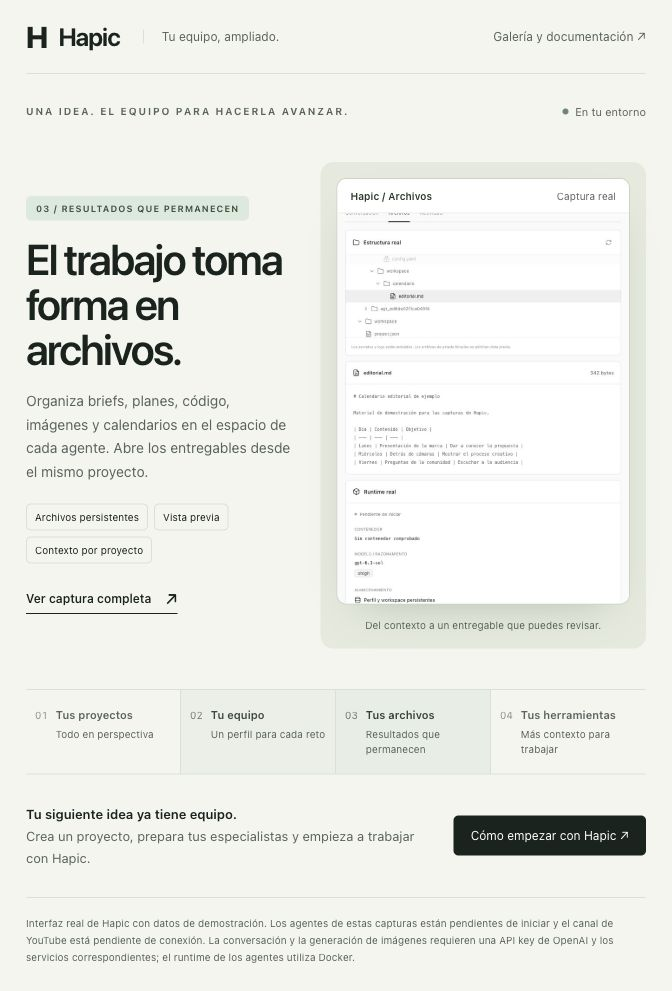
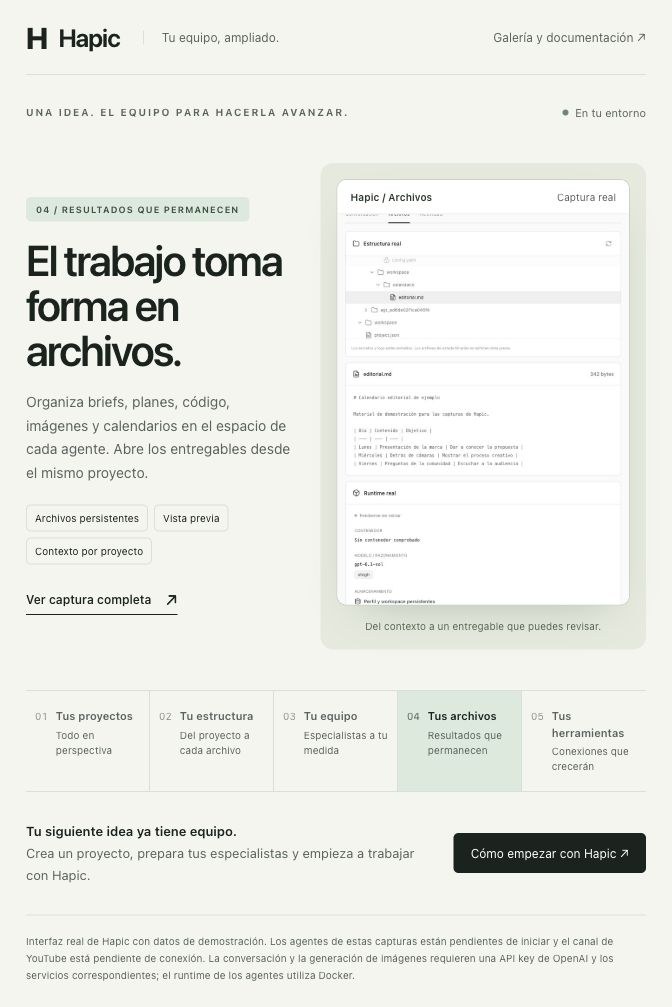
docs: prepare animated Hapic presentation for GitHub Pages

diff --git a/docs/presentacion.html b/docs/presentacion.html
@@ -32,6 +32,11 @@
       .scene-lead { max-width: 410px; margin: 23px 0 25px; color: var(--muted); font-size: 16px; line-height: 1.7; }
       .benefits { display: flex; flex-wrap: wrap; gap: 8px; padding: 0; margin: 0 0 30px; list-style: none; }
       .benefits li { padding: 8px 10px; border: 1px solid var(--line); border-radius: 5px; font-size: 11px; line-height: 1.3; }
+      .capability { margin: 0 0 24px; padding: 10px 0 10px 13px; border-left: 2px solid #8ba78d; color: var(--muted); font-size: 12px; line-height: 1.6; }
+      .capability strong { display: block; margin-bottom: 3px; color: var(--ink); font-size: 12px; }
+      .connection-list { padding: 0; margin: 0 0 24px; list-style: none; }
+      .connection-list li { display: flex; justify-content: space-between; align-items: baseline; flex-wrap: wrap; gap: 6px 12px; padding: 9px 0; border-bottom: 1px solid var(--line); font-size: 13px; }
+      .connection-list small { color: var(--muted); font-size: 11px; }
       .full-image { display: inline-flex; align-items: center; gap: 14px; padding: 0 0 5px; color: var(--ink); border: 0; border-bottom: 1px solid var(--ink); background: transparent; font-size: 12px; font-weight: 550; }
       .full-image span { font-size: 16px; }
       .screen-area { position: relative; min-width: 0; margin: 0; padding: 25px; background: #e5eadd; border-radius: 18px; }
@@ -43,7 +48,15 @@
       .screen-window.files img { transform: translateY(-21%); }
       .screen-window.templates img { transform: translateY(-4.5%); }
       .screen-note { margin: 13px 0 0; color: #556650; font-size: 10px; line-height: 1.5; text-align: center; }
-      .tour-nav { display: grid; grid-template-columns: repeat(4, minmax(0, 1fr)); gap: 0; border-top: 1px solid var(--line); border-bottom: 1px solid var(--line); }
+      .structure { min-height: 465px; padding: 20px 16px; background: #fafafa; border: 1px solid #cbd2c7; border-radius: 10px; }
+      .structure-label { margin: 0 0 20px; color: var(--muted); font-size: 10px; letter-spacing: 1px; text-transform: uppercase; }
+      .folder-tree, .folder-tree ul { padding: 0; margin: 0; list-style: none; }
+      .folder-tree ul { padding-left: 16px; margin: 13px 0 0 5px; border-left: 1px solid var(--line); }
+      .folder-tree li { margin-top: 14px; overflow-wrap: anywhere; }
+      .folder-tree strong { display: block; font-size: 12px; line-height: 1.5; font-weight: 600; }
+      .folder-tree small { display: block; margin-top: 3px; color: var(--muted); font-size: 11px; line-height: 1.5; }
+      .folder-tree code { display: block; margin-top: 7px; color: var(--muted); font-size: 10px; line-height: 1.5; }
+      .tour-nav { display: grid; grid-template-columns: repeat(5, minmax(0, 1fr)); gap: 0; border-top: 1px solid var(--line); border-bottom: 1px solid var(--line); }
       .tour-nav button { display: flex; align-items: flex-start; gap: 14px; min-width: 0; padding: 22px 12px; border: 0; border-right: 1px solid var(--line); background: transparent; color: var(--muted); text-align: left; }
       .tour-nav button:last-child { border-right: 0; }
       .tour-nav button[aria-pressed="true"] { background: var(--mint); color: var(--ink); }
@@ -71,6 +84,7 @@
         .scene-number { margin-bottom: 16px; font-size: 9px; }
         .screen-area { padding: 16px; border-radius: 13px; }
         .screen-window { height: 390px; }
+        .structure { min-height: 390px; padding: 16px 12px; }
         .benefits { gap: 6px; margin-bottom: 24px; }
         .benefits li { padding: 6px 8px; font-size: 10px; }
         .tour-nav button { gap: 8px; padding: 17px 9px; }
@@ -89,20 +103,38 @@
         .screen-area { padding: 20px; }
         .screen-window { height: 360px; }
         .tour-nav { grid-template-columns: repeat(2, minmax(0, 1fr)); }
-        .tour-nav button:nth-child(2) { border-right: 0; }
-        .tour-nav button:nth-child(-n+2) { border-bottom: 1px solid var(--line); }
+        .tour-nav button:nth-child(even) { border-right: 0; }
+        .tour-nav button:nth-child(-n+4) { border-bottom: 1px solid var(--line); }
+        .tour-nav button:last-child { grid-column: 1 / -1; }
         .closing { align-items: flex-start; flex-direction: column; gap: 16px; }
         .step-copy strong { font-size: 12px; }
         .docs-link { font-size: 11px; }
       }
-      @media (prefers-reduced-motion: no-preference) { .tour-nav button { transition: background .16s ease, color .16s ease; } }
+      @keyframes copy-enter { from { opacity: 0; transform: translateY(12px); } to { opacity: 1; transform: translateY(0); } }
+      @keyframes screen-enter { from { opacity: 0; transform: translateY(16px) scale(.985); } to { opacity: 1; transform: translateY(0) scale(1); } }
+      @keyframes item-enter { from { opacity: 0; transform: translateX(-8px); } to { opacity: 1; transform: translateX(0); } }
+      @media (prefers-reduced-motion: no-preference) {
+        .scene:not([hidden]) .scene-copy { animation: copy-enter .42s ease-out both; }
+        .scene:not([hidden]) .screen-area { animation: screen-enter .52s ease-out both; }
+        .scene:not([hidden]) .folder-tree li { animation: item-enter .38s ease-out both; animation-delay: .12s; }
+        .scene:not([hidden]) .folder-tree ul li { animation-delay: .22s; }
+        .scene:not([hidden]) .folder-tree ul ul li { animation-delay: .32s; }
+        .scene:not([hidden]) .folder-tree ul ul ul li { animation-delay: .42s; }
+        .scene:not([hidden]) .connection-list li { animation: item-enter .38s ease-out both; }
+        .scene:not([hidden]) .connection-list li:nth-child(2) { animation-delay: .1s; }
+        .scene:not([hidden]) .connection-list li:nth-child(3) { animation-delay: .2s; }
+        .tour-nav button { transition: background .16s ease, color .16s ease; }
+        .full-image span { display: inline-block; transition: transform .18s ease; }
+        .full-image:hover span { transform: translate(2px, -2px); }
+        dialog[open] { animation: screen-enter .2s ease-out; }
+      }
     </style>
   </head>
   <body>
     <div class="shell">
       <header class="masthead">
         <a class="brand" href="#producto" aria-label="Hapic, inicio"><span class="brand-mark" aria-hidden="true">H</span> Hapic <span class="brand-caption">Tu equipo, ampliado.</span></a>
-        <a class="docs-link" href="dashboard.md">Galería y documentación ↗</a>
+        <a class="docs-link" href="https://github.com/esteban-rj/hapic/blob/main/docs/dashboard.md">Galería y documentación ↗</a>
       </header>
       <main id="producto">
         <div class="intro"><p class="eyebrow">Una idea. El equipo para hacerla avanzar.</p><span class="local-label">En tu entorno</span></div>
@@ -121,12 +153,47 @@
           </figure>
         </section>
 
+        <section class="scene" id="scene-estructura" aria-labelledby="title-estructura" hidden>
+          <div class="scene-copy">
+            <span class="scene-number">02 / UN LUGAR PARA CADA COSA</span>
+            <h2 id="title-estructura">Del proyecto<br />a cada archivo.</h2>
+            <p class="scene-lead">Agrupa tus proyectos por organización. Cada proyecto reúne a sus agentes, y cada agente conserva su perfil, memoria y carpetas de trabajo.</p>
+            <ul class="benefits"><li>Organizaciones</li><li>Proyectos</li><li>Agentes</li><li>Carpetas y archivos</li></ul>
+            <button type="button" class="full-image" data-image="archivos">Ver el explorador real <span aria-hidden="true">↗</span></button>
+          </div>
+          <figure class="screen-area">
+            <div class="structure">
+              <p class="structure-label">Esquema del espacio de trabajo</p>
+              <ul class="folder-tree">
+                <li><strong>Estudio Aurora</strong><small>Organización</small>
+                  <ul>
+                    <li><strong>Lanzamiento de marca</strong><small>Proyecto</small>
+                      <ul>
+                        <li><strong>Sofía · Community Manager</strong><small>Agente del proyecto</small>
+                          <ul>
+                            <li><strong>hermes/</strong><small>Perfil y memoria persistente</small></li>
+                            <li><strong>workspace/</strong><small>Carpetas y entregables</small><code>calendario/editorial.md</code></li>
+                          </ul>
+                        </li>
+                        <li><strong>Lucía · UX</strong><small>Su propio perfil y workspace</small></li>
+                      </ul>
+                    </li>
+                    <li><strong>Sitio web corporativo</strong><small>Otro proyecto, con su propio equipo</small></li>
+                  </ul>
+                </li>
+              </ul>
+            </div>
+            <figcaption class="screen-note">Estructura ilustrada con datos de demostración.</figcaption>
+          </figure>
+        </section>
+
         <section class="scene" id="scene-plantillas" aria-labelledby="title-plantillas" hidden>
           <div class="scene-copy">
-            <span class="scene-number">02 / TU EQUIPO DE ESPECIALISTAS</span>
-            <h2 id="title-plantillas">Un especialista<br />para cada reto.</h2>
+            <span class="scene-number">03 / TU EQUIPO DE ESPECIALISTAS</span>
+            <h2 id="title-plantillas">Tu equipo,<br />a tu medida.</h2>
             <p class="scene-lead">Empieza con perfiles preparados para diseñar, planificar, escribir código y trabajar tu contenido. Cada agente tiene su propia memoria y espacio de trabajo.</p>
             <ul class="benefits"><li>UX</li><li>Diseño gráfico</li><li>Arquitectura</li><li>Código</li><li>Community Manager</li></ul>
+            <p class="capability"><strong>Previsto · Agentes desde cero</strong>Define un rol, instrucciones y herramientas propios para crear un agente completamente personalizado, sin partir de una plantilla.</p>
             <button type="button" class="full-image" data-image="plantillas">Ver captura completa <span aria-hidden="true">↗</span></button>
           </div>
           <figure class="screen-area">
@@ -137,7 +204,7 @@
 
         <section class="scene" id="scene-archivos" aria-labelledby="title-archivos" hidden>
           <div class="scene-copy">
-            <span class="scene-number">03 / RESULTADOS QUE PERMANECEN</span>
+            <span class="scene-number">04 / RESULTADOS QUE PERMANECEN</span>
             <h2 id="title-archivos">El trabajo toma<br />forma en archivos.</h2>
             <p class="scene-lead">Organiza briefs, planes, código, imágenes y calendarios en el espacio de cada agente. Abre los entregables desde el mismo proyecto.</p>
             <ul class="benefits"><li>Archivos persistentes</li><li>Vista previa</li><li>Contexto por proyecto</li></ul>
@@ -151,26 +218,27 @@
 
         <section class="scene" id="scene-herramientas" aria-labelledby="title-herramientas" hidden>
           <div class="scene-copy">
-            <span class="scene-number">04 / HERRAMIENTAS PARA TU EQUIPO</span>
-            <h2 id="title-herramientas">Tu canal.<br />Más contexto<br />para tus agentes.</h2>
-            <p class="scene-lead">Autoriza un canal de YouTube y elige qué agentes pueden consultar sus vídeos, comentarios y métricas para trabajar con datos de tu contenido.</p>
-            <ul class="benefits"><li>YouTube de solo lectura</li><li>Canal autorizado</li><li>Asignación por agente</li></ul>
+            <span class="scene-number">05 / HERRAMIENTAS PARA TU EQUIPO</span>
+            <h2 id="title-herramientas">Tus herramientas.<br />Más posibilidades.</h2>
+            <p class="scene-lead">La visión de Hapic es que cualquier agente incorpore conexiones según su trabajo. YouTube es el primer conector; el catálogo podrá crecer con HeyGen, ElevenLabs y otros servicios.</p>
+            <ul class="connection-list"><li><strong>YouTube</strong><small>Disponible · Solo lectura</small></li><li><strong>HeyGen</strong><small>Integración prevista</small></li><li><strong>ElevenLabs</strong><small>Integración prevista</small></li></ul>
             <button type="button" class="full-image" data-image="herramientas">Ver captura completa <span aria-hidden="true">↗</span></button>
           </div>
           <figure class="screen-area">
             <div class="screen-frame"><div class="screen-header"><span class="screen-title">Hapic / Herramientas</span><span>Captura real</span></div><div class="screen-window"><img src="screenshots/dashboard-herramientas.jpg" alt="Herramienta de YouTube y controles para asignarla a los agentes del proyecto." width="672" height="2059" /></div></div>
-            <figcaption class="screen-note">Una conexión del proyecto, disponible para los agentes que elijas.</figcaption>
+            <figcaption class="screen-note">Captura del conector actual de YouTube. Las otras integraciones están previstas.</figcaption>
           </figure>
         </section>
 
         <nav class="tour-nav" aria-label="Recorrido por Hapic">
           <button type="button" data-scene="resumen" aria-controls="scene-resumen" aria-pressed="true"><span class="step-number">01</span><span class="step-copy"><strong>Tus proyectos</strong><small>Todo en perspectiva</small></span></button>
-          <button type="button" data-scene="plantillas" aria-controls="scene-plantillas" aria-pressed="false"><span class="step-number">02</span><span class="step-copy"><strong>Tu equipo</strong><small>Un perfil para cada reto</small></span></button>
-          <button type="button" data-scene="archivos" aria-controls="scene-archivos" aria-pressed="false"><span class="step-number">03</span><span class="step-copy"><strong>Tus archivos</strong><small>Resultados que permanecen</small></span></button>
-          <button type="button" data-scene="herramientas" aria-controls="scene-herramientas" aria-pressed="false"><span class="step-number">04</span><span class="step-copy"><strong>Tus herramientas</strong><small>Más contexto para trabajar</small></span></button>
+          <button type="button" data-scene="estructura" aria-controls="scene-estructura" aria-pressed="false"><span class="step-number">02</span><span class="step-copy"><strong>Tu estructura</strong><small>Del proyecto a cada archivo</small></span></button>
+          <button type="button" data-scene="plantillas" aria-controls="scene-plantillas" aria-pressed="false"><span class="step-number">03</span><span class="step-copy"><strong>Tu equipo</strong><small>Especialistas a tu medida</small></span></button>
+          <button type="button" data-scene="archivos" aria-controls="scene-archivos" aria-pressed="false"><span class="step-number">04</span><span class="step-copy"><strong>Tus archivos</strong><small>Resultados que permanecen</small></span></button>
+          <button type="button" data-scene="herramientas" aria-controls="scene-herramientas" aria-pressed="false"><span class="step-number">05</span><span class="step-copy"><strong>Tus herramientas</strong><small>Conexiones que crecerán</small></span></button>
         </nav>
         <p id="tour-status" class="sr-only" aria-live="polite">Mostrando Tus proyectos.</p>
-        <div class="closing"><p><strong>Tu siguiente idea ya tiene equipo.</strong><br />Crea un proyecto, prepara tus especialistas y empieza a trabajar con Hapic.</p><a class="start-link" href="../README.md#recorrido">Cómo empezar con Hapic ↗</a></div>
+        <div class="closing"><p><strong>Tu siguiente idea ya tiene equipo.</strong><br />Crea un proyecto, prepara tus especialistas y empieza a trabajar con Hapic.</p><a class="start-link" href="https://github.com/esteban-rj/hapic#recorrido">Cómo empezar con Hapic ↗</a></div>
       </main>
       <footer><p class="footnote">Interfaz real de Hapic con datos de demostración. Los agentes de estas capturas están pendientes de iniciar y el canal de YouTube está pendiente de conexión. La conversación y la generación de imágenes requieren una API key de OpenAI y los servicios correspondientes; el runtime de los agentes utiliza Docker.</p></footer>
     </div>

diff --git a/docs/index.html b/docs/index.html
@@ -1,0 +1,13 @@
+<!doctype html>
+<html lang="es">
+  <head>
+    <meta charset="UTF-8" />
+    <meta name="viewport" content="width=device-width, initial-scale=1" />
+    <meta http-equiv="refresh" content="0; url=presentacion.html" />
+    <link rel="canonical" href="presentacion.html" />
+    <title>Hapic · Tu equipo, ampliado</title>
+  </head>
+  <body>
+    <p><a href="presentacion.html">Ver la presentación de Hapic</a></p>
+  </body>
+</html>

diff --git a/docs/dashboard.md b/docs/dashboard.md
@@ -2,7 +2,7 @@
 
 Un espacio para organizar tus proyectos y trabajar con especialistas de IA que conservan su memoria, sus archivos y un propósito definido.
 
-[Abrir el recorrido visual →](presentacion.html)
+[Abrir el recorrido visual →](https://esteban-rj.github.io/hapic/)
 
 ## Todos tus proyectos. Una sola perspectiva.
 
@@ -12,9 +12,28 @@ Dale un lugar a cada idea. Desde el resumen puedes explorar tus proyectos, encon
 
 [Ver la captura original completa del resumen](screenshots/dashboard-resumen.jpg)
 
+## Del proyecto a cada archivo.
+
+La organización agrupa los proyectos. Cada proyecto reúne a sus agentes y un workspace compartido; cada agente dispone de un perfil Hermes con memoria y de su propio workspace para carpetas y archivos.
+
+```text
+.hapic/
+  organizations/<organizacion-id>/
+    projects/<proyecto-id>/
+      workspace/                     # planes compartidos del proyecto
+      agents/<agente-id>/
+        hermes/                      # perfil, configuración y memoria
+        workspace/                   # carpetas y archivos del agente
+          calendario/editorial.md
+```
+
+![Hapic: estructura de organizaciones, proyectos, agentes y carpetas](screenshots/hapic-estructura.jpg)
+
 ## Un especialista para cada reto.
 
 Construye tu equipo a partir de perfiles preparados. Cada plantilla define una forma de trabajo, preguntas iniciales y entregables para empezar con una dirección clara.
+
+**Previsto: agentes desde cero.** La evolución del producto contempla definir un rol, instrucciones y herramientas propios para crear un agente completamente personalizado, sin plantilla. La versión actual de este repositorio crea agentes desde las plantillas disponibles.
 
 | Lo que quieres construir | Tu especialista |
 | --- | --- |
@@ -41,9 +60,11 @@ Briefs, planes, código, imágenes y calendarios tienen un espacio propio. Explo
 
 [Ver la captura original completa del explorador](screenshots/dashboard-archivos.jpg)
 
-## Tu canal. Más contexto para tus agentes.
+## Tus herramientas. Más posibilidades.
 
 Conecta un canal autorizado de YouTube y elige qué agentes pueden consultar sus vídeos, comentarios y métricas. La herramienta pertenece al proyecto y puede integrarse en cualquiera de sus perfiles; Community Manager la incluye preseleccionada.
+
+El catálogo podrá incorporar **HeyGen**, **ElevenLabs** y otros servicios. Son integraciones previstas; el conector disponible actualmente es YouTube de solo lectura.
 
 ![Hapic: tu canal aporta contexto a los agentes que elijas](screenshots/hapic-herramientas.jpg)
 
@@ -59,4 +80,4 @@ Interfaz real de este repositorio, capturada el 10 de noviembre de 2026 en una v
 
 YouTube es de solo lectura; la publicación y la delegación automática entre agentes siguen pendientes. El Coder entrega código y pruebas en archivos. La conversación requiere configurar OpenAI e iniciar el runtime Docker del agente.
 
-[Recorrido visual](presentacion.html) · [README](../README.md) · [Configuración de YouTube](youtube.md) · [Arquitectura](architecture.md)
+[Recorrido visual](https://esteban-rj.github.io/hapic/) · [README](../README.md) · [Configuración de YouTube](youtube.md) · [Arquitectura](architecture.md)

diff --git a/README.md b/README.md
@@ -2,13 +2,13 @@
 
 **Tu equipo, ampliado.** Organiza tus proyectos y reúne especialistas de IA con memoria, archivos y herramientas propias. UX, diseño, arquitectura, código y contenido, desde un mismo lugar.
 
-Explora el [recorrido visual de Hapic](docs/presentacion.html) o la [galería del dashboard](docs/dashboard.md). Las capturas utilizan datos de demostración; cada instalación empieza con su propio espacio vacío.
+Explora el [recorrido visual de Hapic](https://esteban-rj.github.io/hapic/) o la [galería del dashboard](docs/dashboard.md). Las capturas utilizan datos de demostración; cada instalación empieza con su propio espacio vacío.
 
 Hapic es un MVP local en español basado en agentes Hermes persistentes, con interfaz React/Vite, backend FastAPI y metadatos SQLite. Los cinco bocetos iniciales se conservan en [docs/mockups](docs/mockups).
 
 ## Documentación
 
-- [Recorrido visual](docs/presentacion.html): descubre Hapic a través de sus pantallas.
+- [Recorrido visual](https://esteban-rj.github.io/hapic/): descubre Hapic a través de sus pantallas.
 - [Hapic en imágenes](docs/dashboard.md): proyectos, especialistas, archivos y herramientas.
 - [Arquitectura](docs/architecture.md): componentes, datos, provisión y límites de acceso.
 - [API y MCP](docs/api.md): rutas, sesión local, herramientas y errores.
@@ -22,9 +22,12 @@ Hapic es un MVP local en español basado en agentes Hermes persistentes, con int
 [![Hapic: todos tus proyectos, una sola perspectiva](docs/screenshots/hapic-proyectos.jpg)](docs/dashboard.md)
 
 - **Dale un lugar a cada proyecto.** Reúne su contexto y consulta el estado de tu equipo.
+- **Organiza cada nivel de tu espacio.** Organizaciones, proyectos, agentes y sus carpetas y archivos.
 - **Elige al especialista adecuado.** Parte de cinco perfiles con instrucciones y entregables definidos.
 - **Conserva el resultado.** Revisa los archivos y mantén la memoria de cada agente entre sesiones.
 - **Acerca tus herramientas al equipo.** Asigna YouTube de solo lectura a los agentes que elijas, con un canal autorizado.
+
+La evolución prevista incluye agentes creados desde cero con rol e instrucciones propios, y nuevas conexiones con HeyGen, ElevenLabs y otros servicios.
 
 [Descubre las pantallas de Hapic →](docs/dashboard.md)
 
